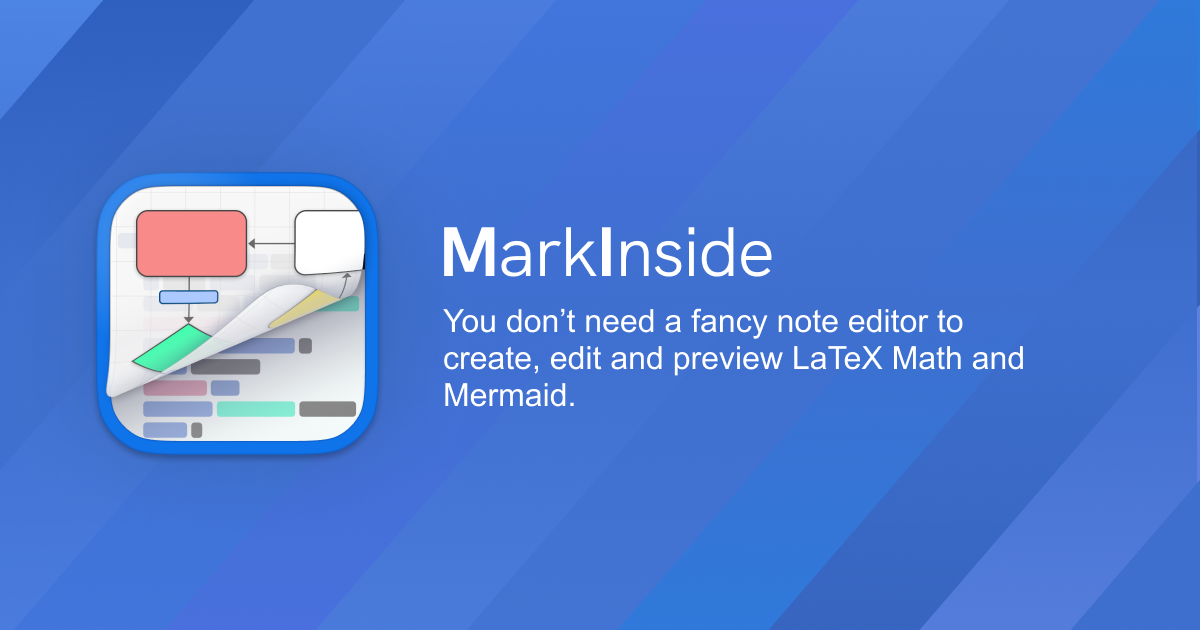
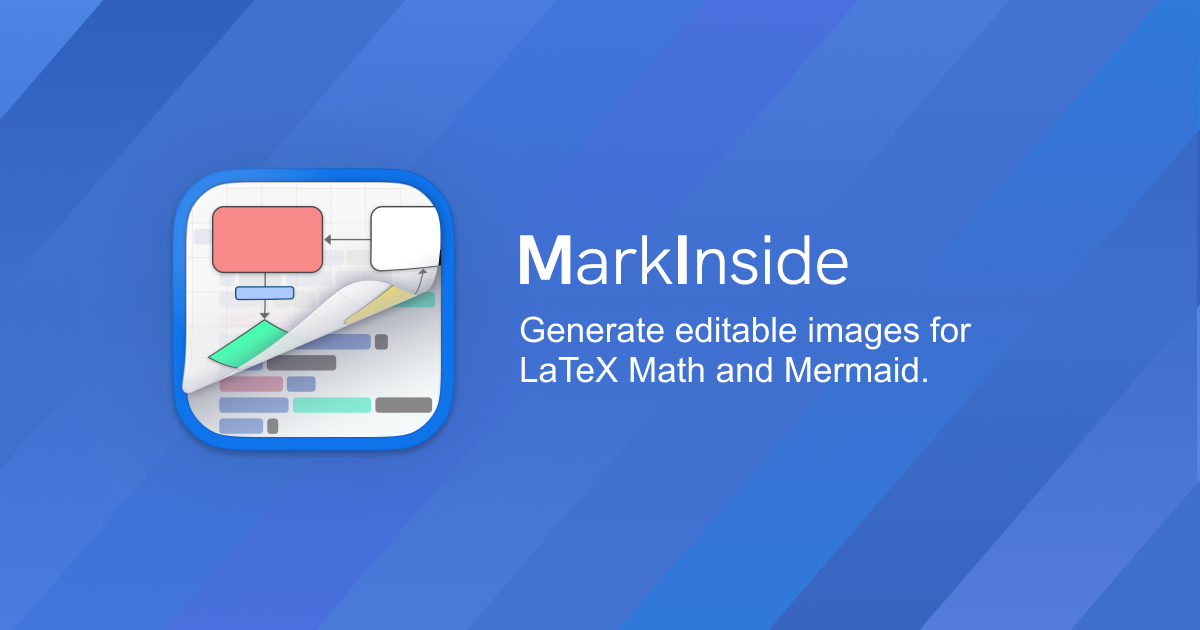
Publish deploy 2021-12-31 23:47

Changed region(s): [[0.0617, 0.2413, 0.8633, 0.754]]

diff --git a/zh-cn/index.html b/zh-cn/index.html
@@ -1,1 +1,1 @@
-<!DOCTYPE html><html lang="en"><head><meta charset="UTF-8"/><meta name="og:site_name" content="index|MarkInside for macOS (and Windows Later)"/><link rel="canonical" href="https://markinside.intii.com/zh-cn"/><meta name="twitter:url" content="https://markinside.intii.com/zh-cn"/><meta name="og:url" content="https://markinside.intii.com/zh-cn"/><title>index|MarkInside for macOS (and Windows Later)</title><meta name="twitter:title" content="index|MarkInside for macOS (and Windows Later)"/><meta name="og:title" content="index|MarkInside for macOS (and Windows Later)"/><meta name="description" content="MarkInside for macOS (and Windows Later)"/><meta name="twitter:description" content="MarkInside for macOS (and Windows Later)"/><meta name="og:description" content="MarkInside for macOS (and Windows Later)"/><meta name="twitter:card" content="summary_large_image"/><link rel="stylesheet" href="/styles.css" type="text/css"/><meta name="viewport" content="width=device-width, initial-scale=1.0"/><link rel="shortcut icon" href="/images/favicon.png" type="image/png"/><meta name="twitter:image" content="https://markinside.intii.com/Twitter_Card_ZH.png?random=7108"/><meta name="og:image" content="https://markinside.intii.com/Twitter_Card_ZH.png?random=7108"/><meta name="twitter:site" content="@intitni"/><meta name="twitter:creator" content="@intitni"/></head><body class="wrapper"><header class="header"><div class="page-links"><p><a href="https://www.craft.do/s/3U2bTBDh3YGYG7">版本记录</a></p><p><a href="https://www.craft.do/s/202QeKkBT1MksS">隐私协议</a></p></div></header><div class="introduction-stack"><div class="app-icon"><img src="/AppIcon.png"/></div><div class="app-title"><h1>MarkInside</h1></div><div class="app-introduction"><p>你并不需要一个高端的笔记软件去创建、编辑、预览</p><p><span class="bold">LaTex Math</span> 和 <span class="bold">Mermaid</span></p></div><div class="downloads"><a href="https://apps.apple.com/cn/app/markinside/id1551813400"><img src="/DownloadFromMAS_US.svg"/></a></div></div><div class="content"><h2>图片即源文件</h2><p>没有任何 *.markinside 文件！通过 MarkInside 生成的图片就是源文件。 如果你想编辑图片里的内容，只需要✱用 MarkInside 打开图片就可以了。</p><p class="note">✱ 有的应用会压缩 PNG 文件，导致 MarkInside 嵌入其中的源代码被删除。如果你遇到了这种情况，可以考虑生成 SVG 或 PDF。</p><h2>实时预览</h2><p>MarkInside 提供了生成内容的实时预览，随时更新源代码或者配置就能实时查看图片的变化。</p><p>你也可以调整预览区域大小，或者修改它的背景颜色以让它更贴近你希望使用这些图片的环境。这样你就可以更游刃有余地为图片选择适合的配置。</p><h2>在任何地方使用</h2><p>通过 MarkInside 生成的文件不过是常见的 PNG、SVG 和 PDF。这意味着你不需要什么特殊的渲染软件就可以将它们展示在任何地方。</p></div><footer class="footer"><p>Copyright © 2021</p><p><a href="mailto:markinsideapp@intii.com">联系我</a></p><script src="https://www.googletagmanager.com/gtag/js?id=UA-17603222-4"></script></footer></body></html>
+<!DOCTYPE html><html lang="en"><head><meta charset="UTF-8"/><meta name="og:site_name" content="index|MarkInside for macOS (and Windows Later)"/><link rel="canonical" href="https://markinside.intii.com/zh-cn"/><meta name="twitter:url" content="https://markinside.intii.com/zh-cn"/><meta name="og:url" content="https://markinside.intii.com/zh-cn"/><title>index|MarkInside for macOS (and Windows Later)</title><meta name="twitter:title" content="index|MarkInside for macOS (and Windows Later)"/><meta name="og:title" content="index|MarkInside for macOS (and Windows Later)"/><meta name="description" content="MarkInside for macOS (and Windows Later)"/><meta name="twitter:description" content="MarkInside for macOS (and Windows Later)"/><meta name="og:description" content="MarkInside for macOS (and Windows Later)"/><meta name="twitter:card" content="summary_large_image"/><link rel="stylesheet" href="/styles.css" type="text/css"/><meta name="viewport" content="width=device-width, initial-scale=1.0"/><link rel="shortcut icon" href="/images/favicon.png" type="image/png"/><meta name="twitter:image" content="https://markinside.intii.com/Twitter_Card_ZH.png?random=519"/><meta name="og:image" content="https://markinside.intii.com/Twitter_Card_ZH.png?random=519"/><meta name="twitter:site" content="@intitni"/><meta name="twitter:creator" content="@intitni"/></head><body class="wrapper"><header class="header"><div class="page-links"><p><a href="https://www.craft.do/s/3U2bTBDh3YGYG7">版本记录</a></p><p><a href="https://www.craft.do/s/202QeKkBT1MksS">隐私协议</a></p></div></header><div class="introduction-stack"><div class="app-icon"><img src="/AppIcon.png"/></div><div class="app-title"><h1>MarkInside</h1></div><div class="app-introduction"><p>你并不需要一个高端的笔记软件去创建、编辑、预览</p><p><span class="bold">LaTex Math</span> 和 <span class="bold">Mermaid</span></p></div><div class="downloads"><a href="https://apps.apple.com/cn/app/markinside/id1551813400"><img src="/DownloadFromMAS_US.svg"/></a></div></div><div class="content"><h2>图片即源文件</h2><p>没有任何 *.markinside 文件！通过 MarkInside 生成的图片就是源文件。 如果你想编辑图片里的内容，只需要✱用 MarkInside 打开图片就可以了。</p><p class="note">✱ 有的应用会压缩 PNG 文件，导致 MarkInside 嵌入其中的源代码被删除。如果你遇到了这种情况，可以考虑生成 SVG 或 PDF。</p><h2>实时预览</h2><p>MarkInside 提供了生成内容的实时预览，随时更新源代码或者配置就能实时查看图片的变化。</p><p>你也可以调整预览区域大小，或者修改它的背景颜色以让它更贴近你希望使用这些图片的环境。这样你就可以更游刃有余地为图片选择适合的配置。</p><h2>在任何地方使用</h2><p>通过 MarkInside 生成的文件不过是常见的 PNG、SVG 和 PDF。这意味着你不需要什么特殊的渲染软件就可以将它们展示在任何地方。</p></div><footer class="footer"><p>Copyright © 2021</p><p><a href="mailto:markinsideapp@intii.com">联系我</a></p><script src="https://www.googletagmanager.com/gtag/js?id=UA-17603222-4"></script></footer></body></html>

diff --git a/index.html b/index.html
@@ -1,2 +1,2 @@
-<!DOCTYPE html><html lang="en"><head><meta charset="UTF-8"/><meta name="og:site_name" content="index|MarkInside for macOS (and Windows Later)"/><link rel="canonical" href="https://markinside.intii.com"/><meta name="twitter:url" content="https://markinside.intii.com"/><meta name="og:url" content="https://markinside.intii.com"/><title>index|MarkInside for macOS (and Windows Later)</title><meta name="twitter:title" content="index|MarkInside for macOS (and Windows Later)"/><meta name="og:title" content="index|MarkInside for macOS (and Windows Later)"/><meta name="description" content="MarkInside for macOS (and Windows Later)"/><meta name="twitter:description" content="MarkInside for macOS (and Windows Later)"/><meta name="og:description" content="MarkInside for macOS (and Windows Later)"/><meta name="twitter:card" content="summary_large_image"/><link rel="stylesheet" href="/styles.css" type="text/css"/><meta name="viewport" content="width=device-width, initial-scale=1.0"/><link rel="shortcut icon" href="/images/favicon.png" type="image/png"/><meta name="twitter:image" content="https://markinside.intii.com/Twitter_Card_EN.png?random=2205"/><meta name="og:image" content="https://markinside.intii.com/Twitter_Card_EN.png?random=2205"/><meta name="twitter:site" content="@intitni"/><meta name="twitter:creator" content="@intitni"/></head><body class="wrapper"><header class="header"><div class="page-links"><p><a href="https://www.craft.do/s/3U2bTBDh3YGYG7">Change Log</a></p><p><a href="https://www.craft.do/s/202QeKkBT1MksS">Privacy Policy</a></p></div></header><div class="introduction-stack"><div class="app-icon"><img src="/AppIcon.png"/></div><div class="app-title"><h1>MarkInside</h1></div><div class="app-introduction"><p>You don’t need a fancy note editor to
+<!DOCTYPE html><html lang="en"><head><meta charset="UTF-8"/><meta name="og:site_name" content="index|MarkInside for macOS (and Windows Later)"/><link rel="canonical" href="https://markinside.intii.com"/><meta name="twitter:url" content="https://markinside.intii.com"/><meta name="og:url" content="https://markinside.intii.com"/><title>index|MarkInside for macOS (and Windows Later)</title><meta name="twitter:title" content="index|MarkInside for macOS (and Windows Later)"/><meta name="og:title" content="index|MarkInside for macOS (and Windows Later)"/><meta name="description" content="MarkInside for macOS (and Windows Later)"/><meta name="twitter:description" content="MarkInside for macOS (and Windows Later)"/><meta name="og:description" content="MarkInside for macOS (and Windows Later)"/><meta name="twitter:card" content="summary_large_image"/><link rel="stylesheet" href="/styles.css" type="text/css"/><meta name="viewport" content="width=device-width, initial-scale=1.0"/><link rel="shortcut icon" href="/images/favicon.png" type="image/png"/><meta name="twitter:image" content="https://markinside.intii.com/Twitter_Card_EN.png?random=1571"/><meta name="og:image" content="https://markinside.intii.com/Twitter_Card_EN.png?random=1571"/><meta name="twitter:site" content="@intitni"/><meta name="twitter:creator" content="@intitni"/></head><body class="wrapper"><header class="header"><div class="page-links"><p><a href="https://www.craft.do/s/3U2bTBDh3YGYG7">Change Log</a></p><p><a href="https://www.craft.do/s/202QeKkBT1MksS">Privacy Policy</a></p></div></header><div class="introduction-stack"><div class="app-icon"><img src="/AppIcon.png"/></div><div class="app-title"><h1>MarkInside</h1></div><div class="app-introduction"><p>You don’t need a fancy note editor to
 create, edit and preview</p><p><span class="bold">LaTex Math</span> and <span class="bold">Mermaid</span></p></div><div class="downloads"><a href="https://apps.apple.com/cn/app/markinside/id1551813400"><img src="/DownloadFromMAS_US.svg"/></a></div></div><div class="content"><h2>Image is the Source</h2><p>There is no *.markinside file generated alongside when you save images from code. The images are just the single source of truth. You can simply✱ open them in MarkInside to make changes.</p><p class="note">✱ Some apps or services may compress your images and wipe away source codes embed inside. You can try to save as SVG or PDF to bypass this issue.</p><h2>Live Preview</h2><p>MarkInside offers you a side by side editor, you can see the result as you type or change preferences.</p><p>You can adjust windows size and canvas background color, to see how well the output image will suit your use case.</p><h2>Use Everywhere</h2><p>The generated files are just images in PNG, SVG and PDF. Which means you can use them everywhere, without the need for the viewer to support rendering Mermaid, etc.</p></div><footer class="footer"><p>Copyright © 2021</p><p><a href="mailto:markinsideapp@intii.com">Contact Me</a></p><script src="https://www.googletagmanager.com/gtag/js?id=UA-17603222-4"></script></footer></body></html>
